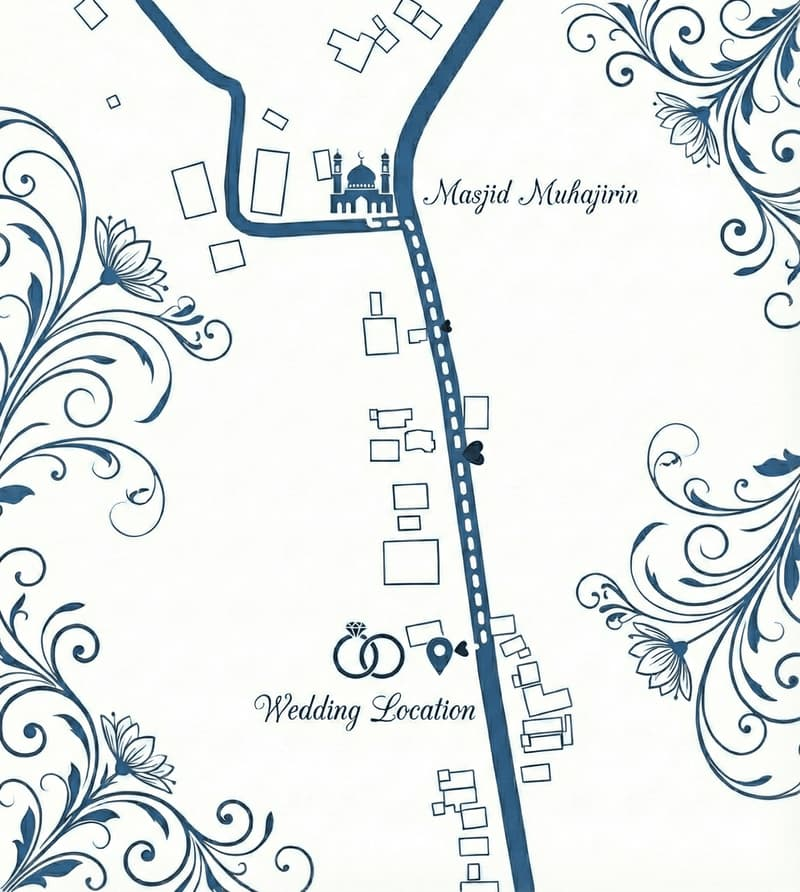
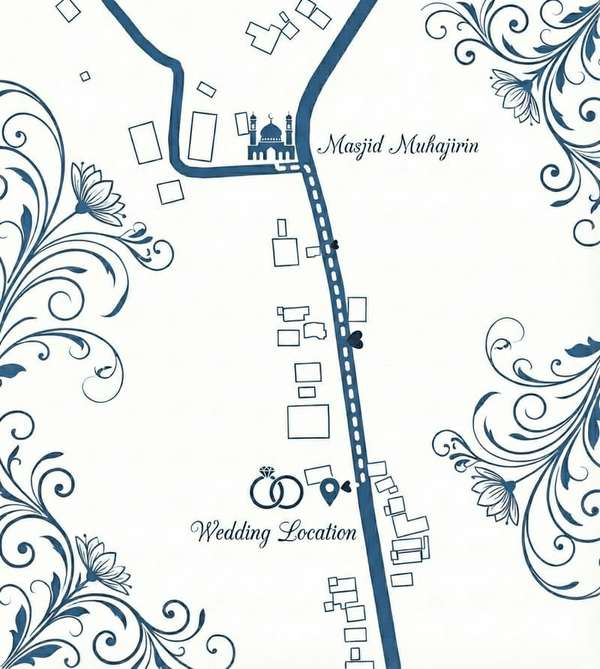
feat: realtime comments via Supabase

diff --git a/app/components/InvitationPage.tsx b/app/components/InvitationPage.tsx
@@ -2,6 +2,7 @@
 
 import { useState, useRef } from "react";
 import { AnimatePresence, motion } from "framer-motion";
+import Image from "next/image";
 import GreetingOverlay from "@/app/components/GreetingOverlay";
 import VideoSection from "@/app/components/VideoSection";
 import PostVideoOptions from "@/app/components/PostVideoOptions";
@@ -46,6 +47,8 @@ const WEDDING_DATE_CONFIG = {
     numberFontSize: "text-base md:text-lg lg:text-xl",
     labelFontSize: "text-[8px] md:text-[9px]",
 };
+
+const MotionImage = motion.create(Image);
 
 export default function InvitationPage({ guestName }: InvitationPageProps) {
     const { t } = useLanguage();
@@ -112,10 +115,12 @@ export default function InvitationPage({ guestName }: InvitationPageProps) {
                     viewport={{ once: false, amount: 0.1 }}
                     transition={{ duration: 1.5, ease: "easeOut" }}
                 >
-                    <motion.img
-                        src="/image/rose-up.png"
+                    <MotionImage
+                        src="/image/rose-up.webp"
                         alt="Top Frame Decoration"
-                        className="w-full md:w-[60%] lg:w-[40%] object-contain origin-top -mt-3 md:-mt-10 lg:-mt-14 scale-110"
+                        width={1000}
+                        height={600}
+                        className="w-full md:w-[60%] lg:w-[40%] h-auto object-contain origin-top -mt-3 md:-mt-10 lg:-mt-14 scale-110"
                         animate={{ y: [-10, 0, -10] }}
                         transition={{
                             duration: 5,
@@ -136,10 +141,12 @@ export default function InvitationPage({ guestName }: InvitationPageProps) {
                         viewport={{ once: false, amount: 0.05 }}
                         transition={{ duration: 0.9, ease: "easeOut" }}
                     >
-                        <motion.img
-                            src="/image/rose-bottom.png"
+                        <MotionImage
+                            src="/image/rose-bottom.webp"
                             alt="Bottom Frame Decoration"
-                            className="w-full object-cover object-top origin-bottom"
+                            width={500}
+                            height={300}
+                            className="w-full h-auto object-cover object-top origin-bottom"
                             animate={{ y: [0, 10, 0] }}
                             transition={{ duration: 6, repeat: Infinity, repeatType: "reverse", ease: "easeInOut" }}
                         />
@@ -153,10 +160,12 @@ export default function InvitationPage({ guestName }: InvitationPageProps) {
                         viewport={{ once: false, amount: 0.1 }}
                         transition={{ duration: 1.5, ease: "easeOut" }}
                     >
-                        <motion.img
-                            src="/image/rose-up-bottom-dekstop.png"
+                        <MotionImage
+                            src="/image/rose-up-bottom-dekstop.webp"
                             alt="Bottom Frame Decoration"
-                            className="w-full md:w-[60%] lg:w-[40%] object-contain origin-bottom -mb-3 md:-mb-10 lg:-mb-14 scale-110"
+                            width={1000}
+                            height={600}
+                            className="w-full md:w-[60%] lg:w-[40%] h-auto object-contain origin-bottom -mb-3 md:-mb-10 lg:-mb-14 scale-110"
                             animate={{ y: [10, 0, 10] }}
                             transition={{
                                 duration: 5,
@@ -207,11 +216,13 @@ export default function InvitationPage({ guestName }: InvitationPageProps) {
 
                                     <div className="relative w-full h-full bg-white/30 backdrop-blur-sm border border-white/40 rounded-t-full rounded-b-[100px] p-3 shadow-lg overflow-hidden">
                                         <div className="w-full h-full bg-[#366998]/5 rounded-t-full rounded-b-[90px] border border-[#366998]/10 flex items-center justify-center overflow-hidden relative">
-                                            {/* Photo Placeholder / Image */}
-                                            <img
+                                            <Image
                                                 src="/image/restu.jpeg"
                                                 alt="Restu Fauzi"
+                                                width={400}
+                                                height={500}
                                                 className="w-full h-full object-cover"
+                                                sizes="(max-width: 768px) 224px, 256px"
                                             />
                                             <div className="absolute inset-0 bg-gradient-to-b from-transparent to-[#366998]/10 mix-blend-multiply pointer-events-none"></div>
                                         </div>
@@ -245,11 +256,13 @@ export default function InvitationPage({ guestName }: InvitationPageProps) {
 
                                     <div className="relative w-full h-full bg-white/30 backdrop-blur-sm border border-white/40 rounded-t-full rounded-b-[100px] p-3 shadow-lg overflow-hidden">
                                         <div className="w-full h-full bg-[#366998]/5 rounded-t-full rounded-b-[90px] border border-[#366998]/10 flex items-center justify-center overflow-hidden relative">
-                                            {/* Photo Placeholder / Image */}
-                                            <img
+                                            <Image
                                                 src="/image/tania.jpeg"
                                                 alt="Tanya Apriska"
+                                                width={400}
+                                                height={500}
                                                 className="w-full h-full object-cover"
+                                                sizes="(max-width: 768px) 224px, 256px"
                                             />
                                             <div className="absolute inset-0 bg-gradient-to-b from-transparent to-[#366998]/10 mix-blend-multiply pointer-events-none"></div>
                                         </div>
@@ -379,19 +392,14 @@ export default function InvitationPage({ guestName }: InvitationPageProps) {
                         </div>
 
                         {/* Location Image */}
-                        <motion.div
-                            initial={{ opacity: 0, scale: 0.95 }}
-                            whileInView={{ opacity: 1, scale: 1 }}
-                            viewport={{ once: false, amount: 0.3 }}
-                            transition={{ duration: 0.8 }}
-                            className="w-full max-w-3xl md:max-w-lg mx-auto px-4 mt-8 md:mt-12 mb-6 flex justify-center"
-                        >
-                            <img
-                                src="/image/lokasi-weddings.jpg"
-                                alt="Peta Lokasi"
-                                className="w-full h-auto rounded-2xl shadow-xl border-4 border-white/50"
-                            />
-                        </motion.div>
+                        <Image
+                            src="/image/lokasi-weddings.webp"
+                            alt="Peta Lokasi"
+                            width={800}
+                            height={600}
+                            className="w-full md:max-w-md mx-auto h-auto rounded-2xl shadow-xl border-4 border-white/50"
+                            sizes="(max-width: 768px) 100vw, 320px"
+                        />
 
                         {/* Map Button */}
                         <motion.div
@@ -468,10 +476,12 @@ export default function InvitationPage({ guestName }: InvitationPageProps) {
                                         ease: "easeOut"
                                     }}
                                 >
-                                    <motion.img
+                                    <MotionImage
                                         src="/image/angel_sit.png"
                                         alt="Angel Sitting"
-                                        className="w-14 md:w-16 drop-shadow-md origin-bottom mix-blend-multiply opacity-90"
+                                        width={80}
+                                        height={80}
+                                        className="w-14 md:w-16 h-auto drop-shadow-md origin-bottom mix-blend-multiply opacity-90"
                                         animate={{ rotate: [-2, 2, -2] }}
                                         transition={{
                                             duration: 4,
@@ -479,10 +489,12 @@ export default function InvitationPage({ guestName }: InvitationPageProps) {
                                             ease: "easeInOut"
                                         }}
                                     />
-                                    <motion.img
+                                    <MotionImage
                                         src="/image/stitch_sit.png"
                                         alt="Stitch Sitting"
-                                        className="w-16 md:w-20 drop-shadow-md origin-bottom mix-blend-multiply opacity-90"
+                                        width={100}
+                                        height={100}
+                                        className="w-16 md:w-20 h-auto drop-shadow-md origin-bottom mix-blend-multiply opacity-90"
                                         animate={{ rotate: [2, -2, 2] }}
                                         transition={{
                                             duration: 4.5,

diff --git a/app/components/GreetingOverlay.tsx b/app/components/GreetingOverlay.tsx
@@ -1,8 +1,11 @@
 "use client";
 
 import { motion, Variants } from "framer-motion";
-import { useEffect } from "react";
+import Image from "next/image";
+import { useEffect, useState } from "react";
 import { useLanguage } from "@/app/context/LanguageContext";
+
+const MotionImage = motion.create(Image);
 
 interface GreetingOverlayProps {
     onOpen: () => void;
@@ -93,24 +96,32 @@ export default function GreetingOverlay({ onOpen, guestName, weddingDate }: Gree
                 }
             }}
         >
-            {/* Background Image - Parallax Effect possible here if we wanted, but static is fine for now */}
-            {/* Mobile Background Image (Stretched) */}
-            <motion.div
-                className="absolute inset-0 z-0 bg-center bg-[length:100%_100%] md:hidden"
-                style={{ backgroundImage: "url('/image/bg-blue.jpg')" }}
-                initial={{ scale: 1.1 }}
-                animate={{ scale: 1 }}
-                transition={{ duration: 2, ease: "easeOut" }}
-            />
+            {/* Background Images - Using CSS visibility for instant preloader discovery */}
+            <>
+                {/* Mobile Background Image (Stretched) */}
+                <MotionImage
+                    src="/image/bg-blue.webp"
+                    alt="Background Mobile"
+                    fill
+                    priority
+                    className="absolute inset-0 z-0 object-cover md:hidden"
+                    initial={{ scale: 1.1 }}
+                    animate={{ scale: 1 }}
+                    transition={{ duration: 2, ease: "easeOut" }}
+                />
 
-            {/* Desktop Background Image */}
-            <motion.div
-                className="absolute inset-0 z-0 bg-center bg-[length:100%_100%] hidden md:block"
-                style={{ backgroundImage: "url('/image/bg-dekstop.jpg')" }}
-                initial={{ scale: 1.1 }}
-                animate={{ scale: 1 }}
-                transition={{ duration: 2, ease: "easeOut" }}
-            />
+                {/* Desktop Background Image */}
+                <MotionImage
+                    src="/image/bg-dekstop.webp"
+                    alt="Background Desktop"
+                    fill
+                    priority
+                    className="absolute inset-0 z-0 object-cover hidden md:block"
+                    initial={{ scale: 1.1 }}
+                    animate={{ scale: 1 }}
+                    transition={{ duration: 2, ease: "easeOut" }}
+                />
+            </>
 
 
 

diff --git a/app/components/WeddingGift.tsx b/app/components/WeddingGift.tsx
@@ -3,6 +3,7 @@
 import { useState } from "react";
 import { motion } from "framer-motion";
 import { Copy, Check } from "lucide-react";
+import Image from "next/image";
 import { useLanguage } from "@/app/context/LanguageContext";
 
 
@@ -11,7 +12,7 @@ import { useLanguage } from "@/app/context/LanguageContext";
    ────────────────────────────────────────────── */
 function MastercardIcon() {
     return (
-        <div className="relative flex items-center h-8 sm:h-9 md:h-11 select-none" aria-label="Mastercard">
+        <div className="relative flex items-center h-8 sm:h-9 md:h-11 select-none" role="img" aria-label="Mastercard">
             {/* Red circle */}
             <div className="w-7 h-7 sm:w-8 sm:h-8 md:w-9 md:h-9 rounded-full bg-[#EB001B] opacity-90" />
             {/* Orange/Yellow circle — overlaps the red */}
@@ -112,11 +113,15 @@ export default function WeddingGift() {
                                 <div className="relative z-10 h-full flex flex-col justify-between font-sans p-4 xs:p-5 sm:p-4 md:p-5 lg:p-6">
                                     {/* Top row — Bank logo */}
                                     <div className="flex justify-end">
-                                        <img
-                                            src={account.logo}
-                                            alt={account.bank}
-                                            style={{ height: 28, width: "auto", filter: "drop-shadow(0 2px 4px rgba(0,0,0,0.4))" }}
-                                        />
+                                        <div style={{ height: 28, position: 'relative', width: '80px' }}>
+                                            <Image
+                                                src={account.logo}
+                                                alt={account.bank}
+                                                fill
+                                                className="object-contain object-right"
+                                                style={{ filter: "drop-shadow(0 2px 4px rgba(0,0,0,0.4))" }}
+                                            />
+                                        </div>
                                     </div>
 
                                     {/* Center — Chip + Account number */}

diff --git a/app/components/CommentSection.tsx b/app/components/CommentSection.tsx
@@ -4,6 +4,7 @@ import { useEffect, useState, useRef, useMemo } from "react";
 import { motion, AnimatePresence } from "framer-motion";
 import { Send, User, MessageCircle, CheckCircle, XCircle, HelpCircle } from "lucide-react";
 import { getComments, submitComment, type Comment } from "@/app/actions/comments";
+import Image from "next/image";
 import { useLanguage } from "@/app/context/LanguageContext";
 import { supabaseBrowser } from "@/lib/supabase-browser";
 
@@ -13,6 +14,8 @@ interface CommentSectionProps {
 
 // Helper to generate random positions/durations
 const random = (min: number, max: number) => Math.random() * (max - min) + min;
+
+const MotionImage = motion.create(Image);
 
 export default function CommentSection({ guestName }: CommentSectionProps) {
     const { t } = useLanguage();
@@ -144,10 +147,12 @@ export default function CommentSection({ guestName }: CommentSectionProps) {
                         ease: "easeOut"
                     }}
                 >
-                    <motion.img
+                    <MotionImage
                         src="/image/angel.png"
                         alt="Angel Decoration"
-                        className="w-24 md:w-32 drop-shadow-lg transform translate-y-2 origin-bottom"
+                        width={128}
+                        height={128}
+                        className="w-24 md:w-32 h-auto drop-shadow-lg transform translate-y-2 origin-bottom"
                         animate={{ rotate: [-3, 3, -3] }}
                         transition={{
                             duration: 3,
@@ -155,10 +160,12 @@ export default function CommentSection({ guestName }: CommentSectionProps) {
                             ease: "easeInOut"
                         }}
                     />
-                    <motion.img
+                    <MotionImage
                         src="/image/stitch.png"
                         alt="Stitch Decoration"
-                        className="w-24 md:w-32 drop-shadow-lg transform translate-y-2 origin-bottom"
+                        width={128}
+                        height={128}
+                        className="w-24 md:w-32 h-auto drop-shadow-lg transform translate-y-2 origin-bottom"
                         animate={{ rotate: [3, -3, 3] }}
                         transition={{
                             duration: 3.2,

diff --git a/app/components/CalendarCountdown.tsx b/app/components/CalendarCountdown.tsx
@@ -1,6 +1,7 @@
 "use client";
 
 import { useEffect, useState } from "react";
+import Image from "next/image";
 import { useLanguage } from "@/app/context/LanguageContext";
 
 export default function CalendarCountdown() {
@@ -60,10 +61,12 @@ export default function CalendarCountdown() {
                 <div key={i} className="flex items-center justify-center p-2 relative group cursor-default">
                     {isWeddingDay && (
                         <div className="absolute inset-0 flex items-center justify-center pointer-events-none">
-                            <img
-                                src="/image/love_sketch.png"
+                            <Image
+                                src="/image/love_sketch.webp"
                                 alt="Highlight"
-                                className="w-12 h-12 max-w-none opacity-80"
+                                width={48}
+                                height={48}
+                                className="max-w-none opacity-80 h-auto"
                             />
                         </div>
                     )}

diff --git a/app/layout.tsx b/app/layout.tsx
@@ -4,6 +4,7 @@ import "./globals.css";
 const whispering = localFont({
   src: "./fonts/WhisperingSignature.ttf",
   variable: "--font-whispering",
+  display: "swap",
 });
 
 export const viewport = {
@@ -38,11 +39,11 @@ export const metadata = {
     siteName: "Undangan Pernikahan Restu & Tanya",
     images: [
       {
-        url: "/image/metatag.png",
+        url: "/image/metatag.jpg",
         width: 1200,
         height: 630,
         alt: "Undangan Pernikahan Restu & Tanya — 28 Maret 2026",
-        type: "image/png",
+        type: "image/jpeg",
       },
     ],
     locale: "id_ID",
@@ -52,8 +53,8 @@ export const metadata = {
     card: "summary_large_image",
     title: "The Wedding of Restu & Tanya ✨",
     description:
-      "Kami mengundang Anda untuk hadir dan berbagi kebahagiaan di hari istimewa kami. Sabtu, 28 Maret 2026 · Bengkulu, Seluma.",
-    images: ["/image/metatag.png"],
+      "Kami mengundang Anda untuk hadir and berbagi kebahagiaan di hari istimewa kami. Sabtu, 28 Maret 2026 · Bengkulu, Seluma.",
+    images: ["/image/metatag.jpg"],
   },
 };
 

diff --git a/analyze_lcp.js b/analyze_lcp.js
@@ -1,0 +1,14 @@
+const fs = require('fs');
+const report = JSON.parse(fs.readFileSync('g:/wedding-invitation/lighthouse-report.report.json', 'utf8'));
+
+const lcpAudit = report.audits['largest-contentful-paint-element'];
+console.log('--- LCP AUDIT ---');
+console.log(JSON.stringify(lcpAudit, null, 2));
+
+const lcpMetric = report.audits['largest-contentful-paint'];
+console.log('\n--- LCP METRIC ---');
+console.log(JSON.stringify(lcpMetric, null, 2));
+
+const diagnosticNode = report.audits['largest-contentful-paint-element'].details.items[0].node;
+console.log('\n--- LCP NODE ---');
+console.log(JSON.stringify(diagnosticNode, null, 2));

diff --git a/app/components/VideoSection.tsx b/app/components/VideoSection.tsx
@@ -91,6 +91,7 @@ export default function VideoSection({ play, onEnded }: VideoSectionProps) {
                     className="w-full h-full md:w-auto md:h-[90vh] md:aspect-[9/16] object-cover md:object-contain shadow-2xl md:rounded-2xl"
                     src="/video/wedding_compressed.mp4"
                     playsInline
+                    preload="none"
                     onEnded={handleVideoEnded}
                 // poster="/image/poster.jpg"
                 />
